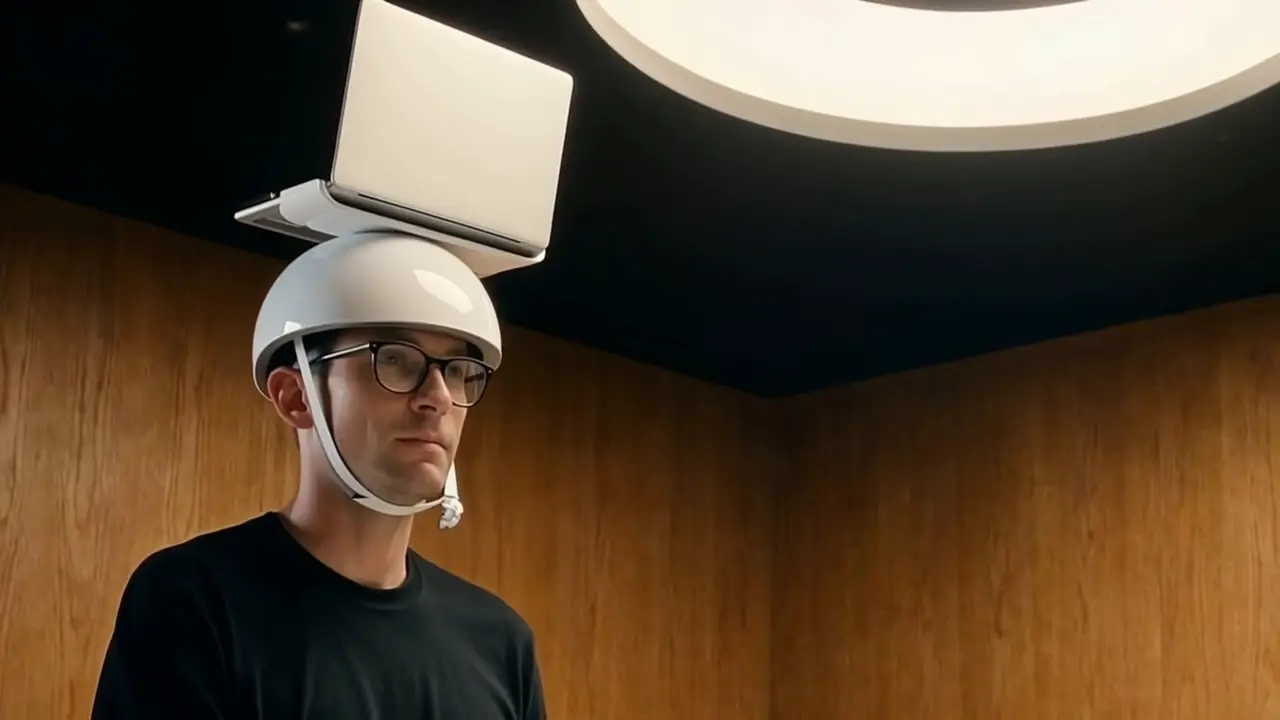
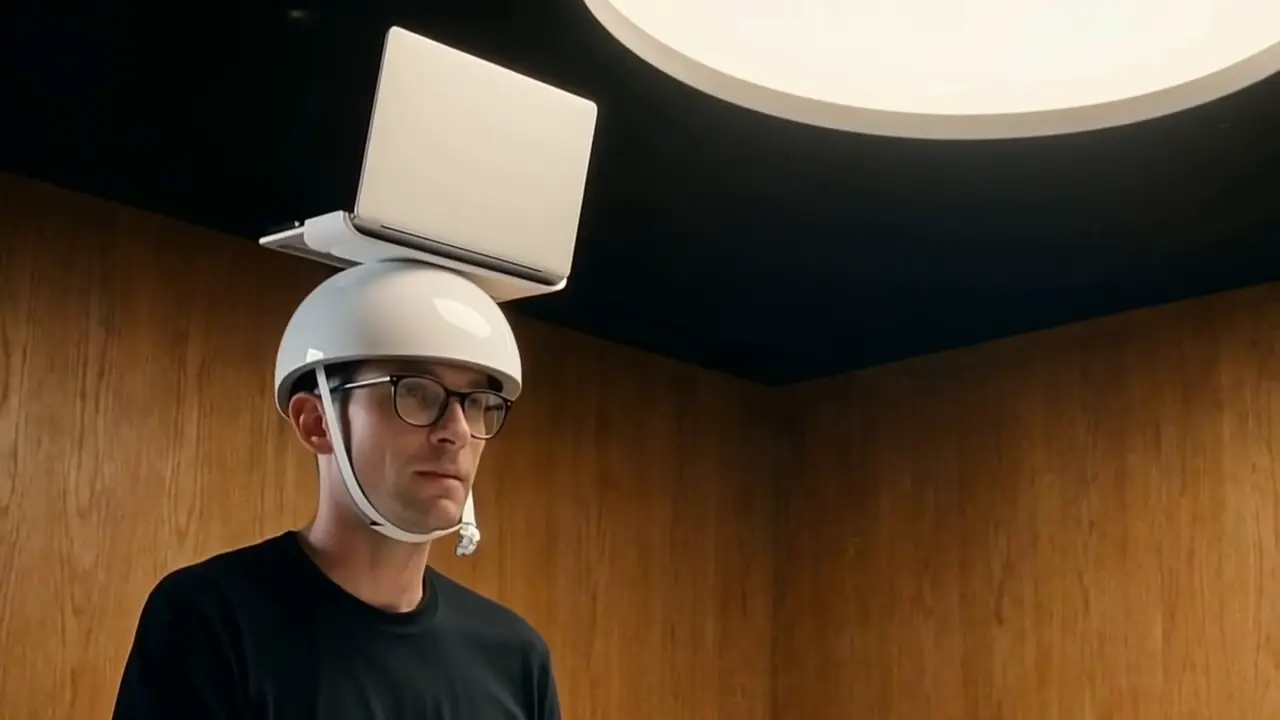
Mobile: wider 1:1 full-height crops so laptop, Tap arm and scene stay in frame

diff --git a/index.html b/index.html
@@ -28,7 +28,7 @@ nav .po{color:var(--mut);font-size:14px}
 .co text{fill:#fff;font:700 20px Inter,system-ui,sans-serif;paint-order:stroke;stroke:#000;stroke-width:5px;stroke-linejoin:round}
 .steps .part{min-height:55vh;display:flex;flex-direction:column;justify-content:center;opacity:.3;transition:opacity .4s;border-top:0}
 .steps .part.on{opacity:1}.steps .part h3{color:var(--ink);font-size:22px}.steps .part p{font-size:18px}
-@media(max-width:760px){.anno{grid-template-columns:1fr;gap:0}.figwrap{top:60px;z-index:3;padding:8px 0 20px;box-shadow:0 12px 12px -4px #fff}.fig{width:min(100%,calc(46vh*640/700));margin:0 auto}.steps{padding-bottom:30vh}.tapgrid .tapgif img{aspect-ratio:4/5}.steps .part{min-height:34vh;text-align:center;justify-content:flex-start;padding-top:2vh;opacity:0}.steps .part.on{opacity:1}}
+@media(max-width:760px){.anno{grid-template-columns:1fr;gap:0}.figwrap{top:60px;z-index:3;padding:8px 0 20px;box-shadow:0 12px 12px -4px #fff}.fig{width:min(100%,calc(46vh*640/700));margin:0 auto}.steps{padding-bottom:30vh}.tapgrid .tapgif img{aspect-ratio:1/1}.steps .part{min-height:34vh;text-align:center;justify-content:flex-start;padding-top:2vh;opacity:0}.steps .part.on{opacity:1}}
 @media(prefers-reduced-motion:reduce){.track{scroll-behavior:auto}.co,.co line,.co circle{transition:none}}
 h1{font-size:clamp(36px,6vw,64px);letter-spacing:-.03em;text-align:center;margin:40px 0 8px;line-height:1.05}
 .lede{text-align:center;max-width:640px;margin:0 auto;color:#333;font-size:18px}
@@ -54,11 +54,11 @@ details{border-bottom:1px solid var(--line);padding:18px 0}summary{list-style:no
 footer{padding:40px 0;color:var(--mut);font-size:13px;text-align:center;border-top:1px solid var(--line)}
 @media(max-width:760px){nav ul{display:none}.stats,.parts,.tapgrid,.quotes{grid-template-columns:1fr}.stats{grid-template-columns:1fr 1fr}section{padding:48px 0}.hero{aspect-ratio:4/5}.hero .arr,.lifecar .arr{display:none}.lifecar .card{flex-basis:78%}}
 @media(max-width:760px){
-.hero{aspect-ratio:auto;height:min(calc((100vw - 48px)*1.25),54svh)}
-.slide img{object-position:50% 30%}.hero h1{font-size:30px;bottom:34px}
+.hero{aspect-ratio:auto;height:min(calc(100vw - 48px),54svh)}
+.slide img{object-position:50% 0%}.hero h1{font-size:28px;bottom:32px}
 section{padding:36px 0}#life h2{margin-top:0}
-.lifecar{margin-top:16px}.lifecar .card img{aspect-ratio:auto;height:min(40svh,calc(78vw*1.25));object-position:50% 22%}.lifecar .card h3{margin:8px 0 2px}
-.tapgrid{gap:16px}.tapgrid .tapgif img{aspect-ratio:auto;height:min(52svh,calc((100vw - 48px)*1.25));object-position:50% 25%}
+.lifecar{margin-top:16px}.lifecar .card{flex-basis:min(78%,42svh)}.lifecar .card img{aspect-ratio:1/1;height:auto;object-position:50% 0%}.lifecar .card h3{margin:8px 0 2px}
+.tapgrid{gap:16px}.tapgrid .tapgif img{aspect-ratio:auto;height:min(52svh,calc(100vw - 48px));object-position:50% 0%}
 .fig{width:min(100%,calc(38svh*640/700))}.steps .part{min-height:30svh}
 }
 </style></head><body>
@@ -73,9 +73,9 @@ section{padding:36px 0}#life h2{margin-top:0}
 <div class="anno"><div class="figwrap"><div class="fig"><img src="assets/design-exploded.webp" alt="Exploded view of Load Bearing" width="640" height="700" loading="lazy"><svg viewBox="0 0 640 700" preserveAspectRatio="xMidYMid meet" aria-hidden="true"><g class="co" data-i="0"><line x1="410" y1="228" x2="590" y2="152"/><circle cx="410" cy="228" r="9"/><text x="628" y="140" text-anchor="end">Self-levelling tray</text></g><g class="co" data-i="1"><line x1="330" y1="340" x2="580" y2="300"/><circle cx="330" cy="340" r="9"/><text x="628" y="288" text-anchor="end">Monocoque dome</text></g><g class="co" data-i="2"><line x1="330" y1="440" x2="580" y2="410"/><circle cx="330" cy="440" r="9"/><text x="628" y="398" text-anchor="end">Memory-foam liner</text></g><g class="co" data-i="3"><line x1="258" y1="590" x2="60" y2="640"/><circle cx="258" cy="590" r="9"/><text x="16" y="668" text-anchor="start">Adjustable chin strap</text></g><g class="co" data-i="4"><line x1="315" y1="525" x2="110" y2="470"/><circle cx="315" cy="525" r="9"/><text x="16" y="458" text-anchor="start">Logic board</text></g></svg></div></div><div class="steps"><div class="part" data-i="0"><h3>Self-levelling tray</h3><p>A two-axis gimbal keeps the keyboard flat while you nod, sigh or look up from your phone</p></div><div class="part" data-i="1"><h3>Monocoque dome</h3><p>One piece of gloss polymer, load rated to a mid-size workstation and one cat</p></div><div class="part" data-i="2"><h3>Memory-foam liner</h3><p>Contoured for all-day wear and a moderate amount of thinking</p></div><div class="part" data-i="3"><h3>Adjustable chin strap</h3><p>Because gravity hasn't shipped an update in a while</p></div><div class="part" data-i="4"><h3>Logic board</h3><p>Watches your terminal so you don't have to. Powers The Tap</p></div></div></div></section>
 <section id="tap"><div class="tapgrid"><div><div class="eyebrow">Optional accessory</div><h2>The Tap</h2><p class="sub">A USB robot arm that reaches down and taps your shoulder the moment an agent stops to ask permission. You look up, say "always allow", and get on with your day</p>
 <div class="prompt">Allow Claude to run <b>npm test</b>?<div class="btns"><button>Yes</button><button class="al">Yes, always allow</button><button>No</button></div></div></div>
-<picture class="tapgif"><source media="(max-width:760px) and (prefers-reduced-motion: reduce)" srcset="assets/tap-poster-m.jpg" width="480" height="600"><source media="(prefers-reduced-motion: reduce)" srcset="assets/tap-poster.jpg" width="720" height="405"><source media="(max-width:760px)" type="image/webp" srcset="assets/tap-m.webp" width="480" height="600"><source media="(max-width:760px)" srcset="assets/tap-m.gif" width="480" height="600"><source type="image/webp" srcset="assets/tap-720.webp" width="720" height="405"><img src="assets/tap-720.gif" alt="The Tap reaches down and taps his shoulder when Claude needs permission" width="720" height="405" loading="lazy"></picture></div></section>
+<picture class="tapgif"><source media="(max-width:760px) and (prefers-reduced-motion: reduce)" srcset="assets/tap-poster-m.jpg" width="480" height="480"><source media="(prefers-reduced-motion: reduce)" srcset="assets/tap-poster.jpg" width="720" height="405"><source media="(max-width:760px)" type="image/webp" srcset="assets/tap-m.webp" width="480" height="480"><source media="(max-width:760px)" srcset="assets/tap-m.gif" width="480" height="480"><source type="image/webp" srcset="assets/tap-720.webp" width="720" height="405"><img src="assets/tap-720.gif" alt="The Tap reaches down and taps his shoulder when Claude needs permission" width="720" height="405" loading="lazy"></picture></div></section>
 <section id="life" class="center"><h2>Built for the in-between</h2><p class="sub">The parts of your day where you used to be unproductive</p>
-<div class="lifecar car" id="lifecar"><div class="cards track" tabindex="0"><div class="card"><img src="assets/life-commute.webp" alt="The commute" width="480" height="600" loading="lazy"><h3>The commute</h3><p>Four stops. One database migration</p></div><div class="card"><img src="assets/life-coffee.webp" alt="The coffee run" width="480" height="600" loading="lazy"><h3>The coffee run</h3><p>Your refactor keeps going. Your barista has questions</p></div><div class="card"><img src="assets/life-dog.webp" alt="The dog walk" width="480" height="600" loading="lazy"><h3>The dog walk</h3><p>Three PRs reviewed before the second lamppost. The dog is used to it now</p></div><div class="card"><img src="assets/life-dinner.webp" alt="Dinner" width="480" height="600" loading="lazy"><h3>Dinner</h3><p>The sauce is reducing. So is your backlog</p></div><div class="card"><img src="assets/life-legday.webp" alt="Leg day" width="480" height="600" loading="lazy"><h3>Leg day</h3><p>Mile two. Ticket forty-seven</p></div><div class="card"><img src="assets/life-break.webp" alt="The quick break" width="480" height="600" loading="lazy"><h3>The quick break</h3><p>We tested waist-up only. Everything we tested went fine</p></div></div><button class="arr prev" aria-label="Previous">‹</button><button class="arr next" aria-label="Next">›</button></div></section>
+<div class="lifecar car" id="lifecar"><div class="cards track" tabindex="0"><div class="card"><img src="assets/life-commute.webp" alt="The commute" width="480" height="480" loading="lazy"><h3>The commute</h3><p>Four stops. One database migration</p></div><div class="card"><img src="assets/life-coffee.webp" alt="The coffee run" width="480" height="480" loading="lazy"><h3>The coffee run</h3><p>Your refactor keeps going. Your barista has questions</p></div><div class="card"><img src="assets/life-dog.webp" alt="The dog walk" width="480" height="480" loading="lazy"><h3>The dog walk</h3><p>Three PRs reviewed before the second lamppost. The dog is used to it now</p></div><div class="card"><img src="assets/life-dinner.webp" alt="Dinner" width="480" height="480" loading="lazy"><h3>Dinner</h3><p>The sauce is reducing. So is your backlog</p></div><div class="card"><img src="assets/life-legday.webp" alt="Leg day" width="480" height="480" loading="lazy"><h3>Leg day</h3><p>Mile two. Ticket forty-seven</p></div><div class="card"><img src="assets/life-break.webp" alt="The quick break" width="480" height="480" loading="lazy"><h3>The quick break</h3><p>We tested waist-up only. Everything we tested went fine</p></div></div><button class="arr prev" aria-label="Previous">‹</button><button class="arr next" aria-label="Next">›</button></div></section>
 <section><h2 class="center">People are talking. Mostly about the hat</h2><div class="quotes">
 <blockquote>"I haven't closed my laptop since August. I'm not sure I could if I wanted to"<cite>— Early tester, staff engineer</cite></blockquote>
 <blockquote>"It tapped me during my daughter's recital. I approved a database migration. Best day of my life"<cite>— Early tester, VP of something</cite></blockquote>
